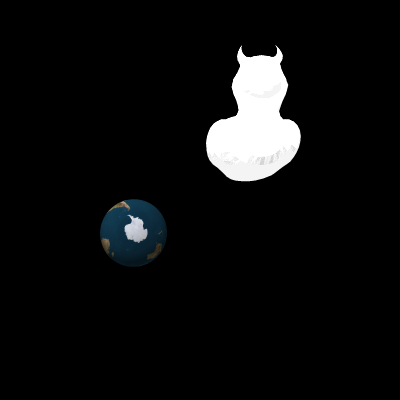
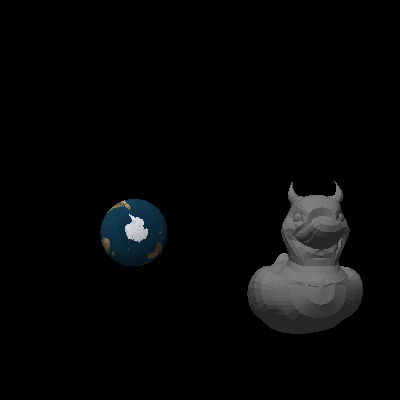
3D Meshes YAML support

diff --git a/raytracer.cpp b/raytracer.cpp
@@ -168,7 +168,11 @@ Light* Raytracer::parseLight(const YAML::Node& node)
     return new Light(position,color);
 }
 
-void parseTriangleMesh(string model_filename, Scene *scene) {
+void Raytracer::parseTriangleMesh(const YAML::Node& node, Scene *scene) {
+    string model_filename = parseString(node["MeshFile"]);
+    if (model_filename.empty()) {
+        return;
+    }
     // The next 3 lines convert "std::string" type to "char*"
     char *char_filename = new char[model_filename.size() + 1];
     std::copy(model_filename.begin(), model_filename.end(), char_filename);
@@ -176,7 +180,11 @@ void parseTriangleMesh(string model_filename, Scene *scene) {
     
     GLMmodel *model = glmReadOBJ(char_filename);
     
-    glmScale(model, 200);
+    float scaleFactor;
+    node["MeshScale"] >> scaleFactor;
+    glmScale(model, scaleFactor);
+    
+    Material *m = parseMaterial(node["MeshMaterial"]);
     
     GLMgroup *group = model->groups;
     // Loops through all the groups in this model
@@ -190,9 +198,10 @@ void parseTriangleMesh(string model_filename, Scene *scene) {
                 Vector(model->vertices[(int)triangle_indices.data[1]*3], model->vertices[(int)triangle_indices.data[1]*3+1], model->vertices[(int)triangle_indices.data[1]*3+2]),
                 Vector(model->vertices[(int)triangle_indices.data[2]*3], model->vertices[(int)triangle_indices.data[2]*3+1], model->vertices[(int)triangle_indices.data[2]*3+2]),
             };
+            
             // Add the position of the model to the vertices of the triangles
-            //Point model_position(model->position[0], model->position[1], model->position[2]);
-            Point model_position(170, 100, 400);
+            Point model_position;
+            model_position = parseTriple(node["MeshPosition"]);
             
             triangle_vertices[0] += model_position;
             triangle_vertices[1] += model_position;
@@ -200,15 +209,7 @@ void parseTriangleMesh(string model_filename, Scene *scene) {
             
             Triangle *t = new Triangle(triangle_vertices[0], triangle_vertices[1], triangle_vertices[2]);
             
-            Material *triangle_material = new Material();
-            Color *triangle_color = new Color(1.0,1.0,1.0);
-            triangle_material->color = *triangle_color;
-            triangle_material->ka = 0.8;
-            triangle_material->kd = 0.8;
-            triangle_material->ks = 0.2;
-            triangle_material->n = 128;
-            
-            t->material = triangle_material;
+            t->material = m;
             
             scene->addObject(t);
         }
@@ -324,14 +325,9 @@ bool Raytracer::readScene(const std::string& inputFilename)
             }
             
             try {
-                const YAML::Node& triangleMeshNode = doc["TriangleMesh"];
-                string modelFilename = parseString(triangleMeshNode);
-                if (modelFilename.empty() == false) {
-                    parseTriangleMesh(modelFilename, scene);
-                }
-
+                parseTriangleMesh(doc, scene);
             } catch (exception) {
-                
+                cout << "Triangle Mesh was not found or is invalid!" << endl;
             }
             
 

diff --git a/raytracer.h b/raytracer.h
@@ -35,6 +35,7 @@ private:
     Light* parseLight(const YAML::Node& node);
     Camera* parseCamera(const YAML::Node& node);
     void parseGoochParameters(const YAML::Node& node, double*  b_pointer, double* y_pointer, double* alpha_pointer, double* beta_pointer);
+    void parseTriangleMesh(const YAML::Node& node, Scene *scene);
 
 public:
     
